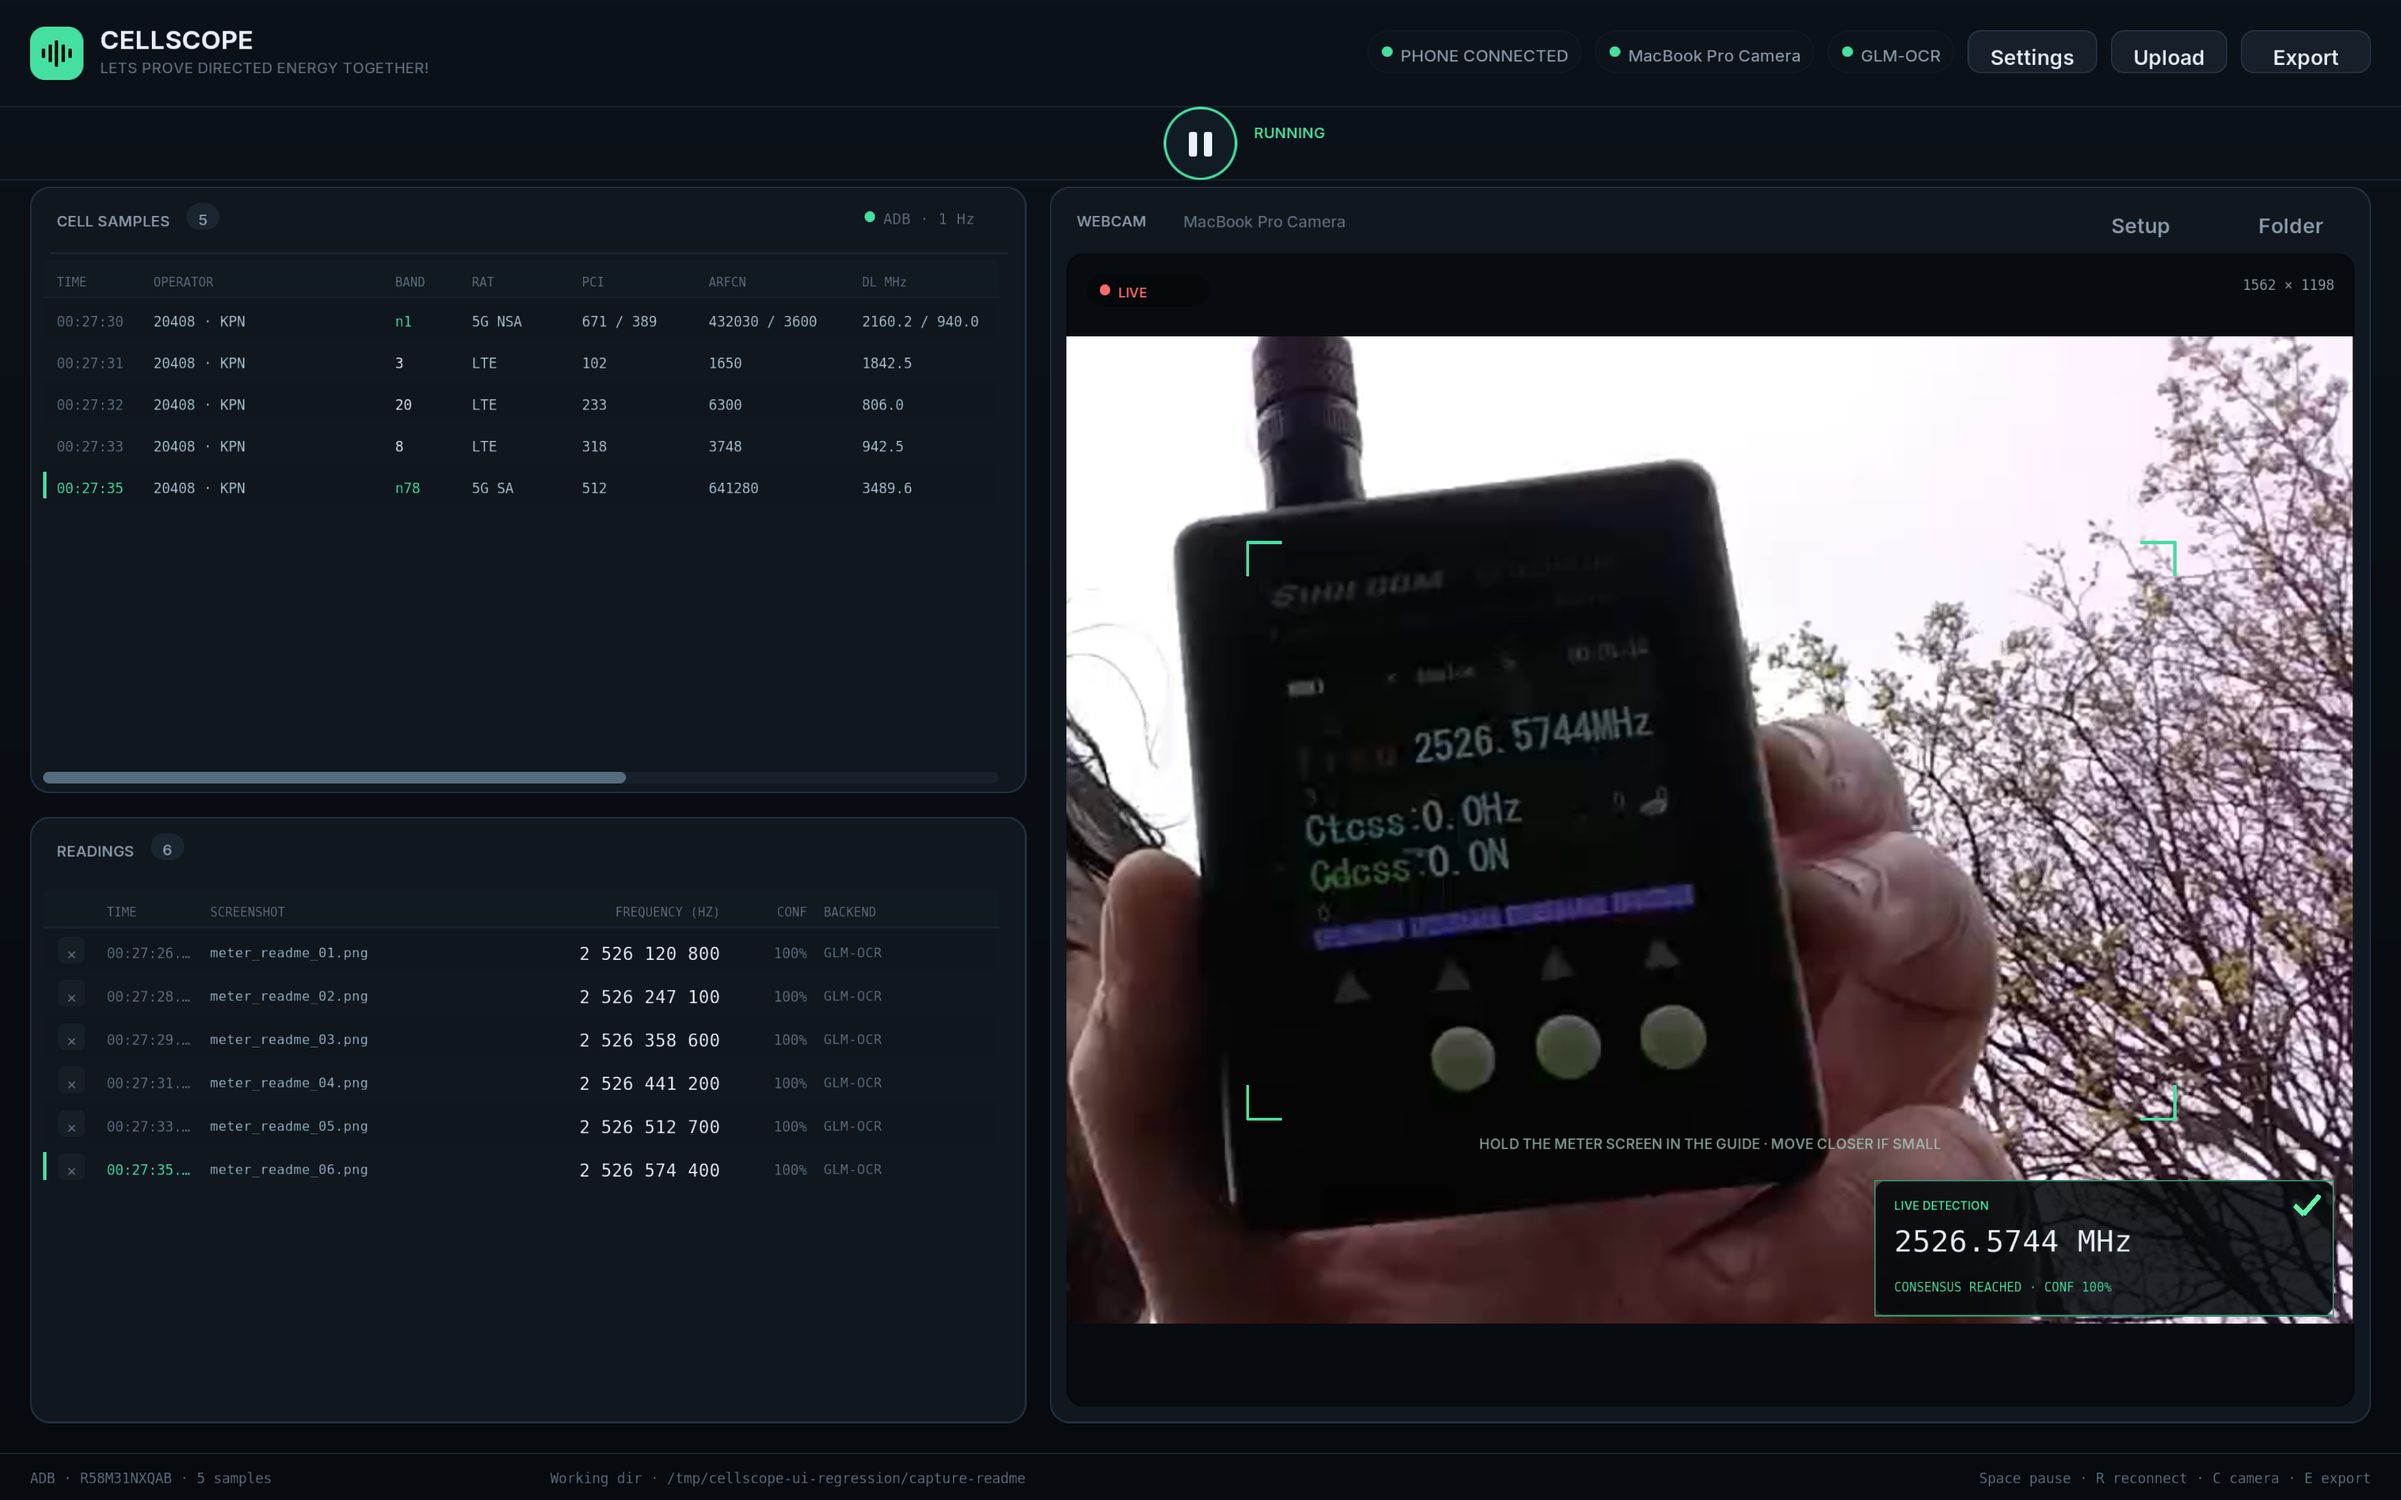
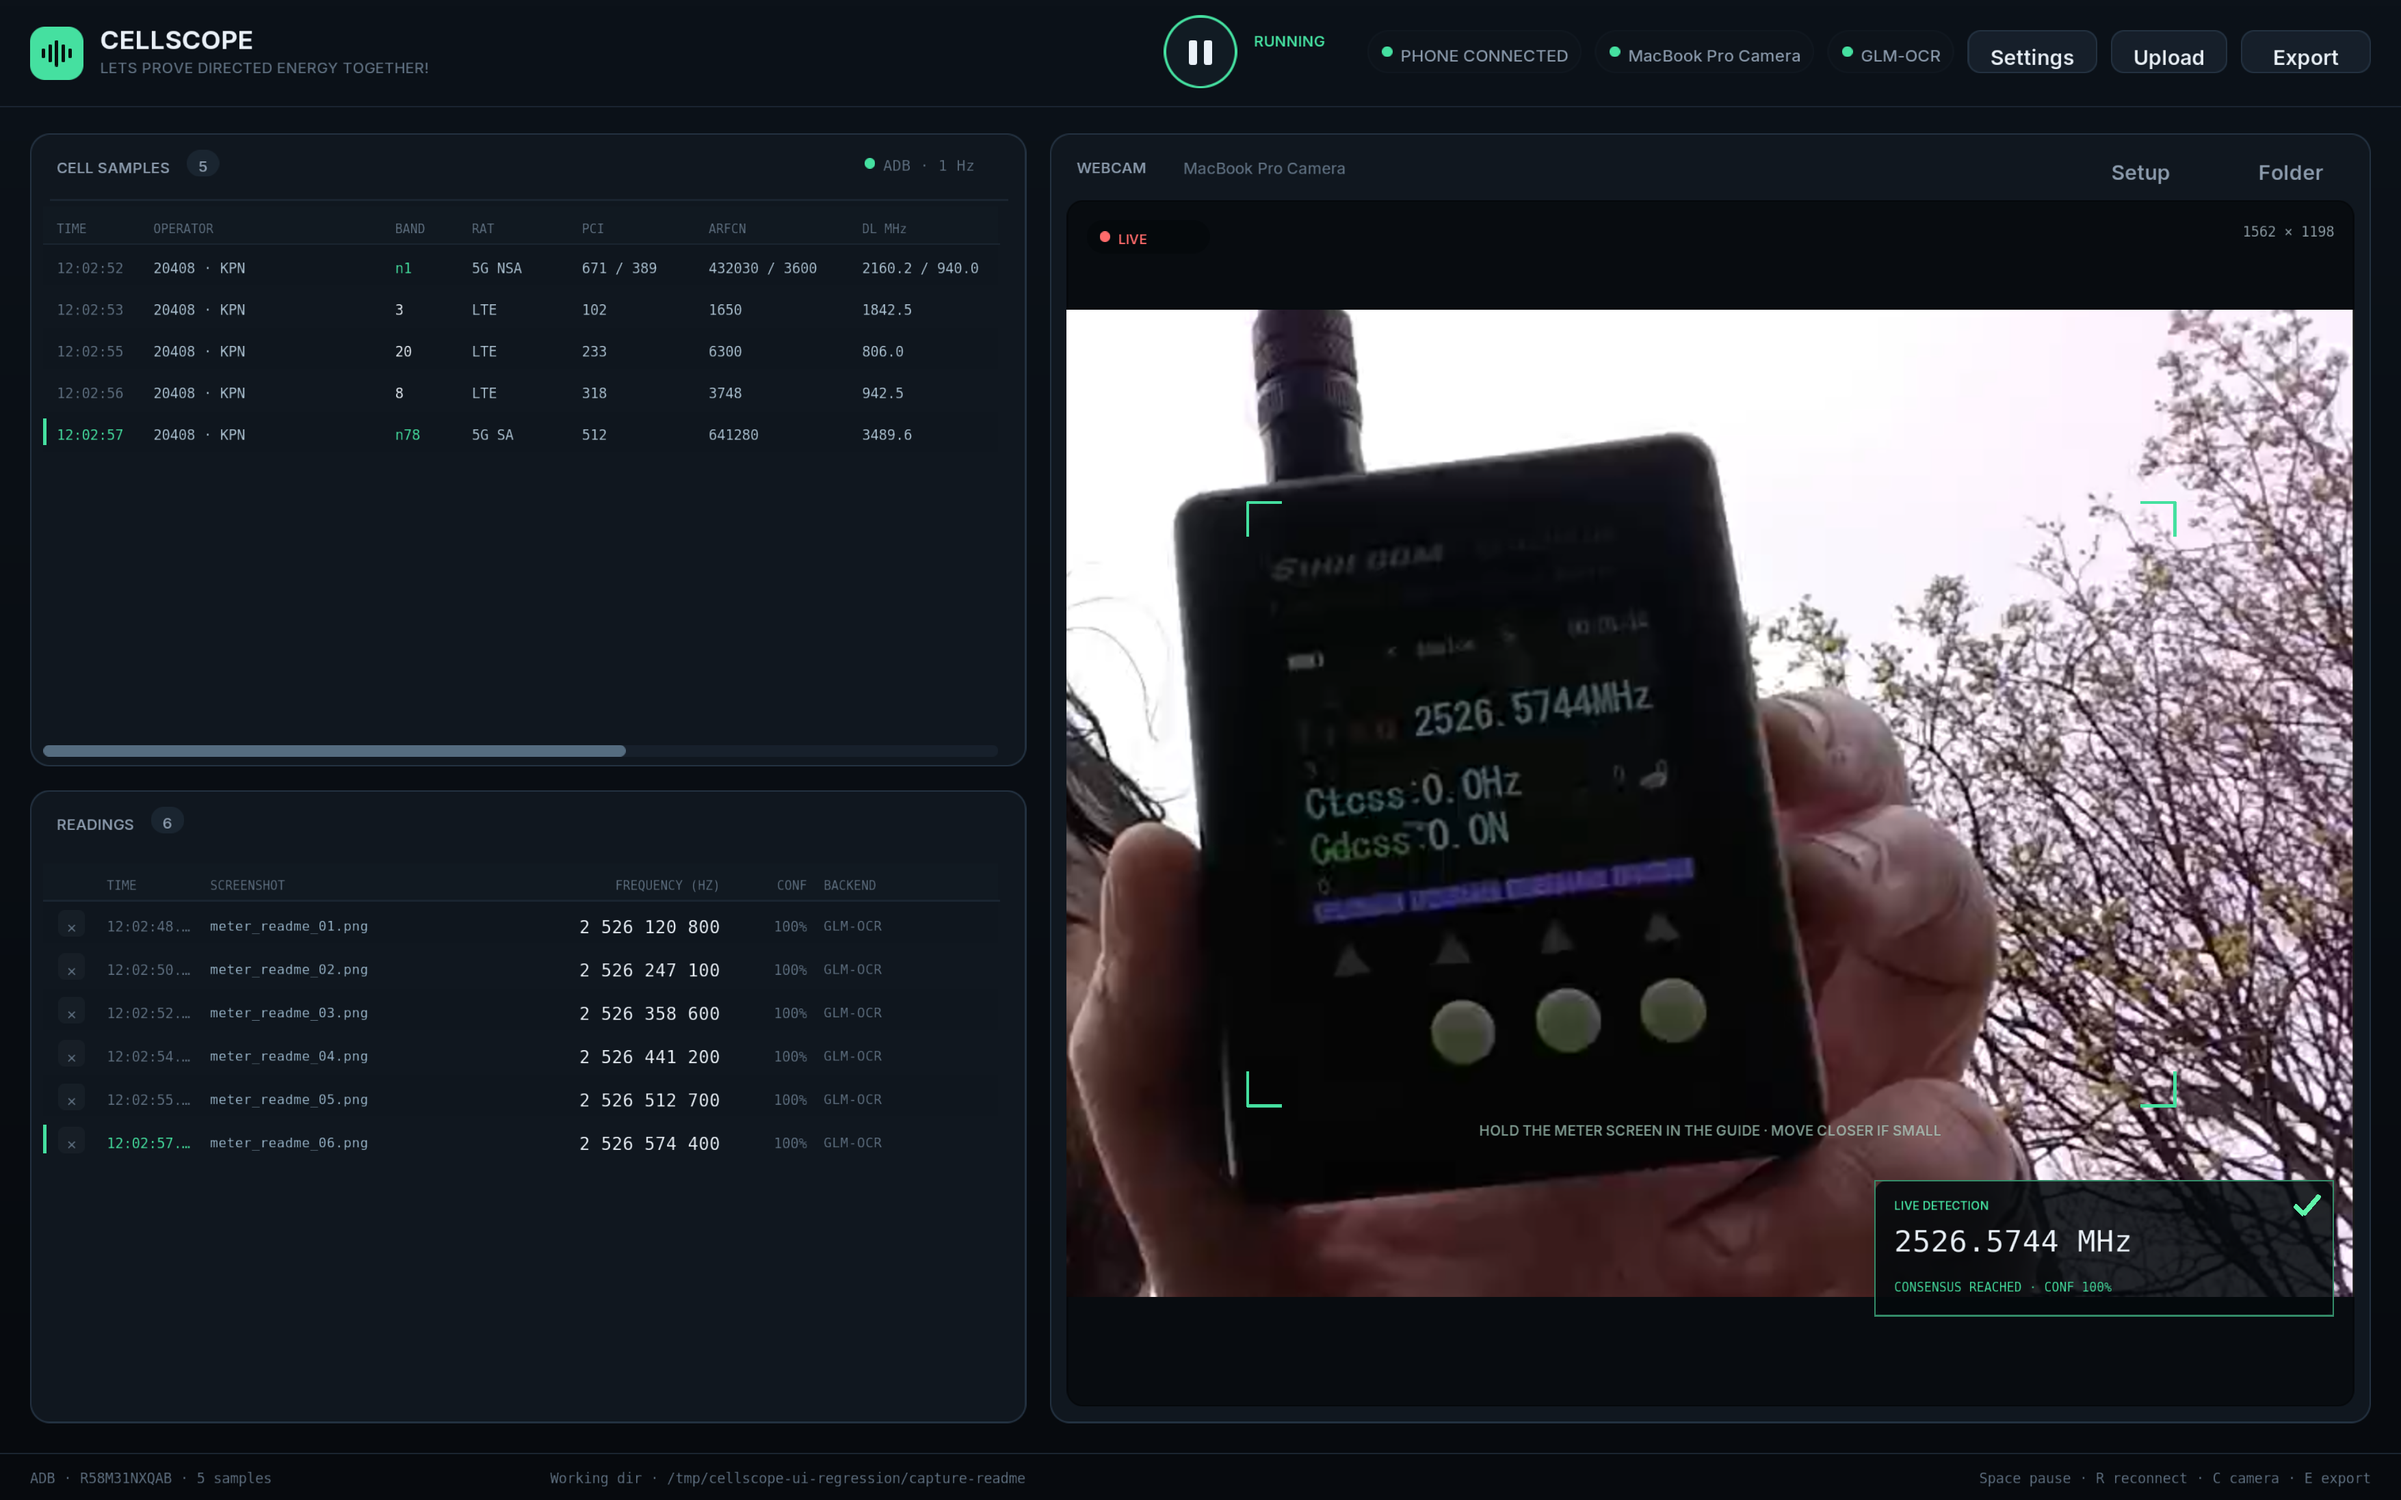
Move the play/pause control into the header
- center the round transport button between the branding and status pills
- align it vertically with the phone status pill
- remove the old transport row and start content higher
- regenerate README screenshot through the Debug UI regression workflow

diff --git a/src/app_ui.c b/src/app_ui.c
@@ -77,7 +77,7 @@ static void layout(App *app, Layout *l)
     float pad = 18, gap = 14;
     l->header = ui_rect(0, 0, (float)w, 64);
     l->footer = ui_rect(0, (float)h - 28, (float)w, 28);
-    float y = 112 + app->ui_banner_h;
+    float y = 80 + app->ui_banner_h;
     float avail_h = (float)h - y - 28 - pad;
     float left_w = ((float)w - 2 * pad - gap) * 0.43f;
     float right_w = (float)w - 2 * pad - gap - left_w;
@@ -138,8 +138,7 @@ static void draw_transport(App *app, UiState *s)
 {
     Ui *ui = &app->ui;
     float cx = (float)ui->win_w / 2.0f;
-    ui_line(ui, 0, 107.5f, (float)ui->win_w, 107.5f, UI_BORDER_SOFT, 1);
-    UiRect btn = ui_rect(cx - 22, 64, 44, 44);
+    UiRect btn = ui_rect(cx - 22, 9, 44, 44);
     bool hover = ui_rect_contains(btn, ui->mx, ui->my);
     UiColor ring = s->paused ? UI_AMBER : UI_ACCENT;
     ui_circle(ui, btn.x + 22, btn.y + 22, 22, ring);
@@ -165,7 +164,7 @@ static void draw_runtime_banner(App *app, UiState *s)
 {
     if (app->ui_banner_h <= 0 || (!s->runtime.active && !s->runtime.error)) return;
     Ui *ui = &app->ui;
-    float y = 108, h = (float)app->ui_banner_h;
+    float y = 80, h = (float)app->ui_banner_h;
     UiColor accent = s->runtime.error ? UI_RED : UI_ACCENT;
     ui_rect_fill(ui, ui_rect(0, y, (float)ui->win_w, h), UI_COLOR(9, 14, 19, 248));
     ui_line(ui, 0, y + h - 0.5f, (float)ui->win_w, y + h - 0.5f, UI_BORDER_SOFT, 1);
